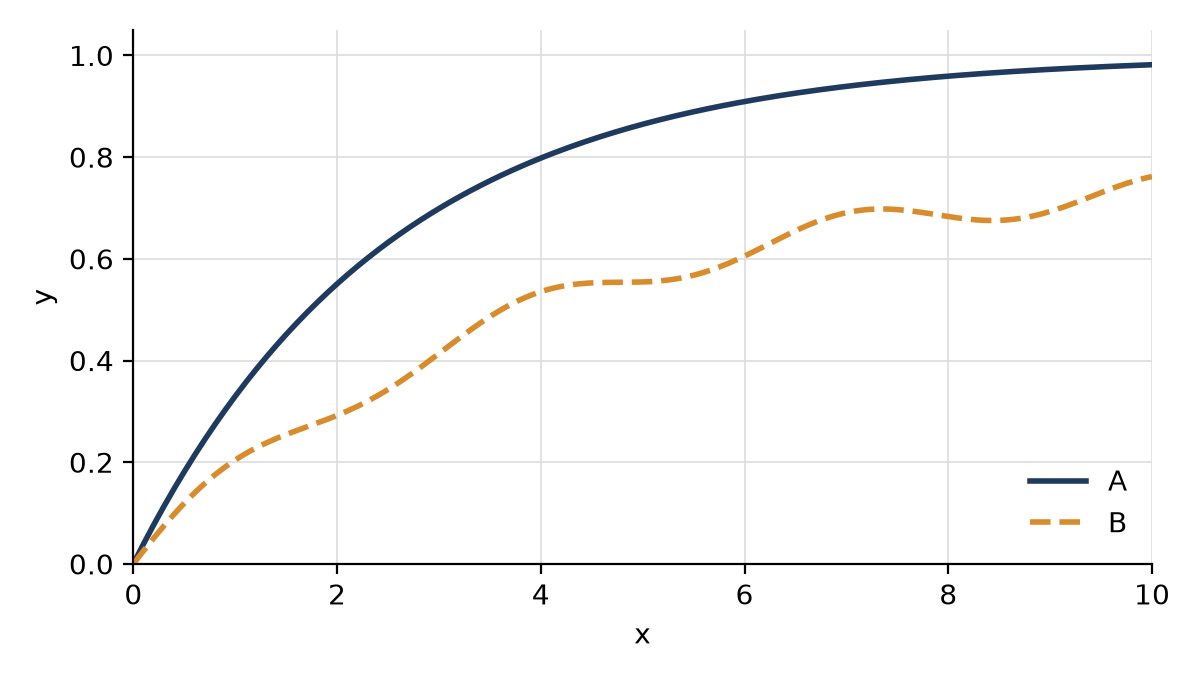
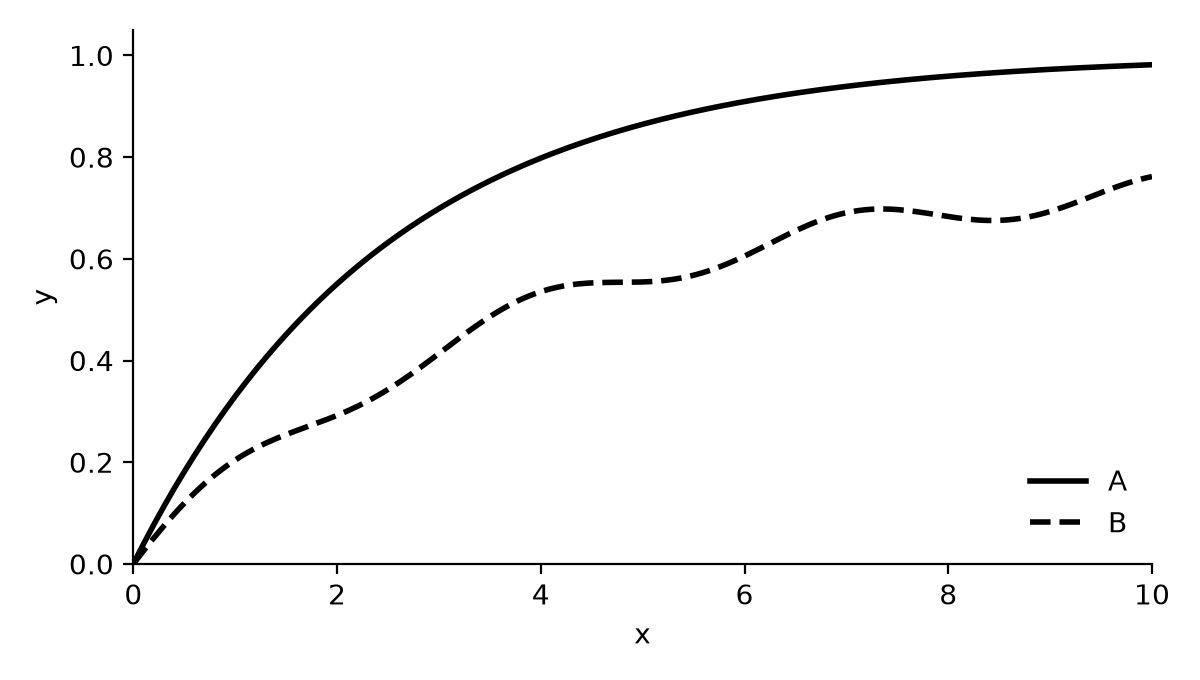
update

diff --git a/main.tex b/main.tex
@@ -91,7 +91,9 @@
 \else
   \usepackage[french,main=english]{babel}
 \fi
-\frenchsetup{StandardLists=true}  % keep enumitem in control of list layout
+% Keep enumitem in control of list layout, and print "Figure"/"Tableau" in
+% caption labels without small capitals, like in English.
+\frenchsetup{StandardLists=true, SmallCapsFigTabCaptions=false}
 \usepackage{csquotes}
 
 % ── Page Layout ───────────────────────────────────────────────────────────────
@@ -135,7 +137,10 @@
 % Captions: table captions go ABOVE the table (write \caption before the
 % tabular), figure captions go BELOW the image (write \caption after it).
 \usepackage{caption}
-\captionsetup{font=small, labelfont={sf,bf}}
+% Label and text are separated by a colon, with the French non-breaking space
+% before it in a French thesis ("Figure 1.1 : ...").
+\DeclareCaptionLabelSeparator{thesiscolon}{\ifthesisfrench~:\else:\fi\space}
+\captionsetup{font=small, labelfont={sf,bf}, labelsep=thesiscolon}
 \captionsetup[table]{position=above}
 \captionsetup[figure]{position=below}
 
@@ -150,9 +155,13 @@
 \usepackage{listings}
 \lstset{
   basicstyle=\ttfamily\small,
+  columns=fullflexible,  % natural letter spacing instead of wide fixed columns
+  keepspaces=true,
   breaklines=true,
   frame=single,
   framesep=4pt,
+  xleftmargin=4.4pt,     % keep the frame inside the text margins
+  xrightmargin=4.4pt,
   numbers=left,
   numberstyle=\tiny,
   keywordstyle=\bfseries,

diff --git a/backmatter/appendices.tex b/backmatter/appendices.tex
@@ -17,10 +17,10 @@
 \renewcommand{\thetable}{A.\arabic{table}}
 \renewcommand{\thelstlisting}{A.\arabic{lstlisting}}
 
-\section*{\appendixname~A : Titre de l'annexe}
+\section*{\appendixname~A: Titre de l'annexe}
 \phantomsection
 \label{app:a}
-\addcontentsline{toc}{section}{\appendixname~A : Titre de l'annexe}
+\addcontentsline{toc}{section}{\appendixname~A: Titre de l'annexe}
 
 Placez ici les compléments (grands tableaux, figures supplémentaires,
 fichiers de configuration, questionnaires\dots). Faites-y référence depuis

diff --git a/chapters/chapter1.tex b/chapters/chapter1.tex
@@ -120,8 +120,9 @@ def moyenne(valeurs):
 % Add the entry to references.bib; it appears in the bibliography as soon
 % as it is cited.
 Citez une source avec \texttt{\textbackslash cite}, comme
-ceci~\cite{example2024book}. L'entrée correspondante se trouve dans
-\texttt{references.bib}.
+ceci~\cite{example2024book}, ou plusieurs à la
+fois~\cite{example2023article,example2025online}. Les entrées
+correspondantes se trouvent dans \texttt{references.bib}.
 
 \section{Listes et renvois}\label{sec:ch1-lists}
 
